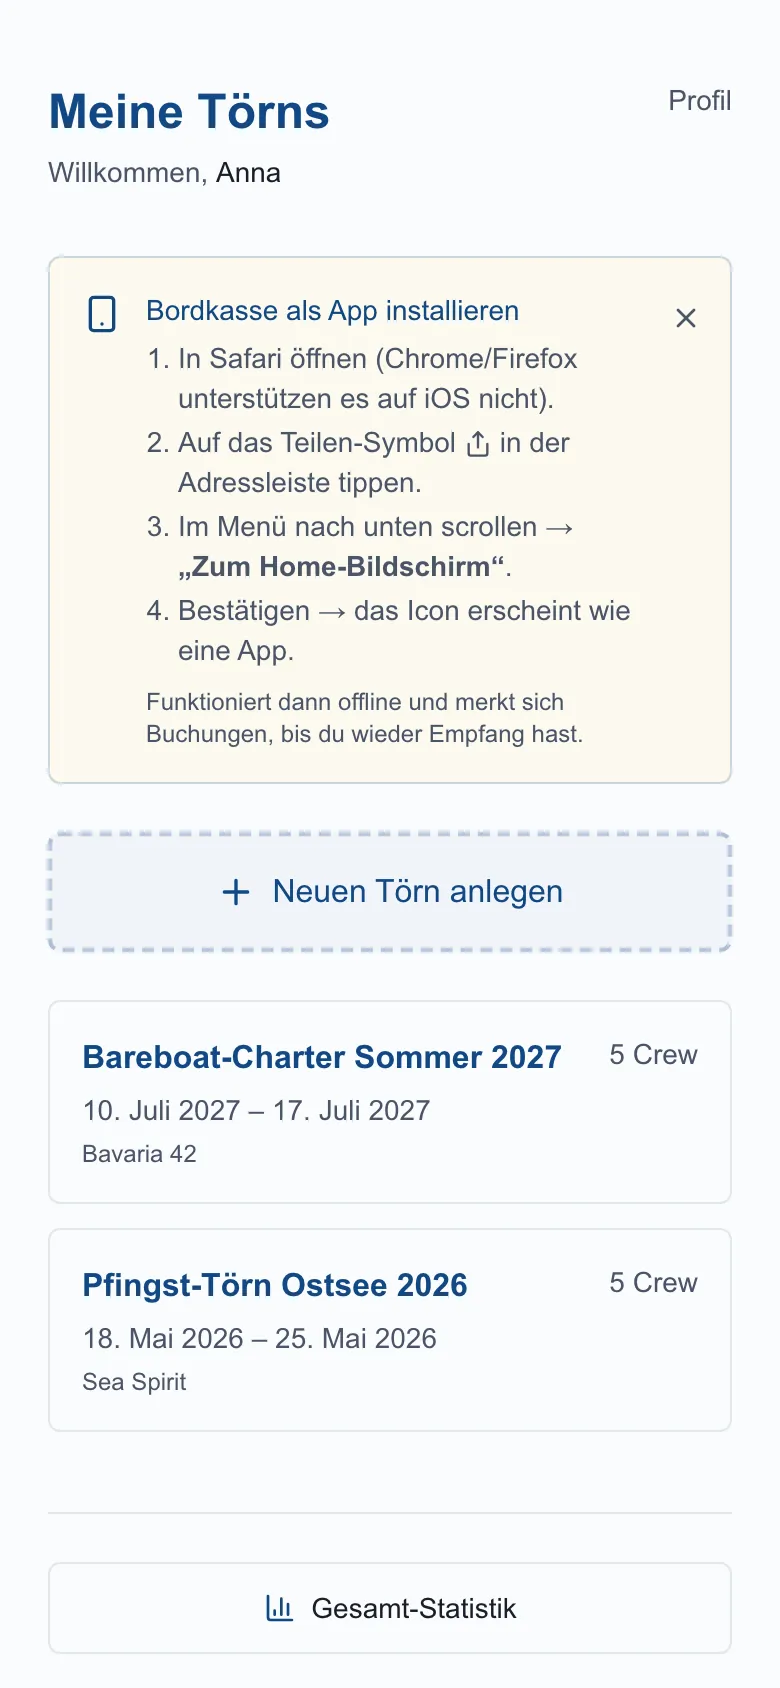
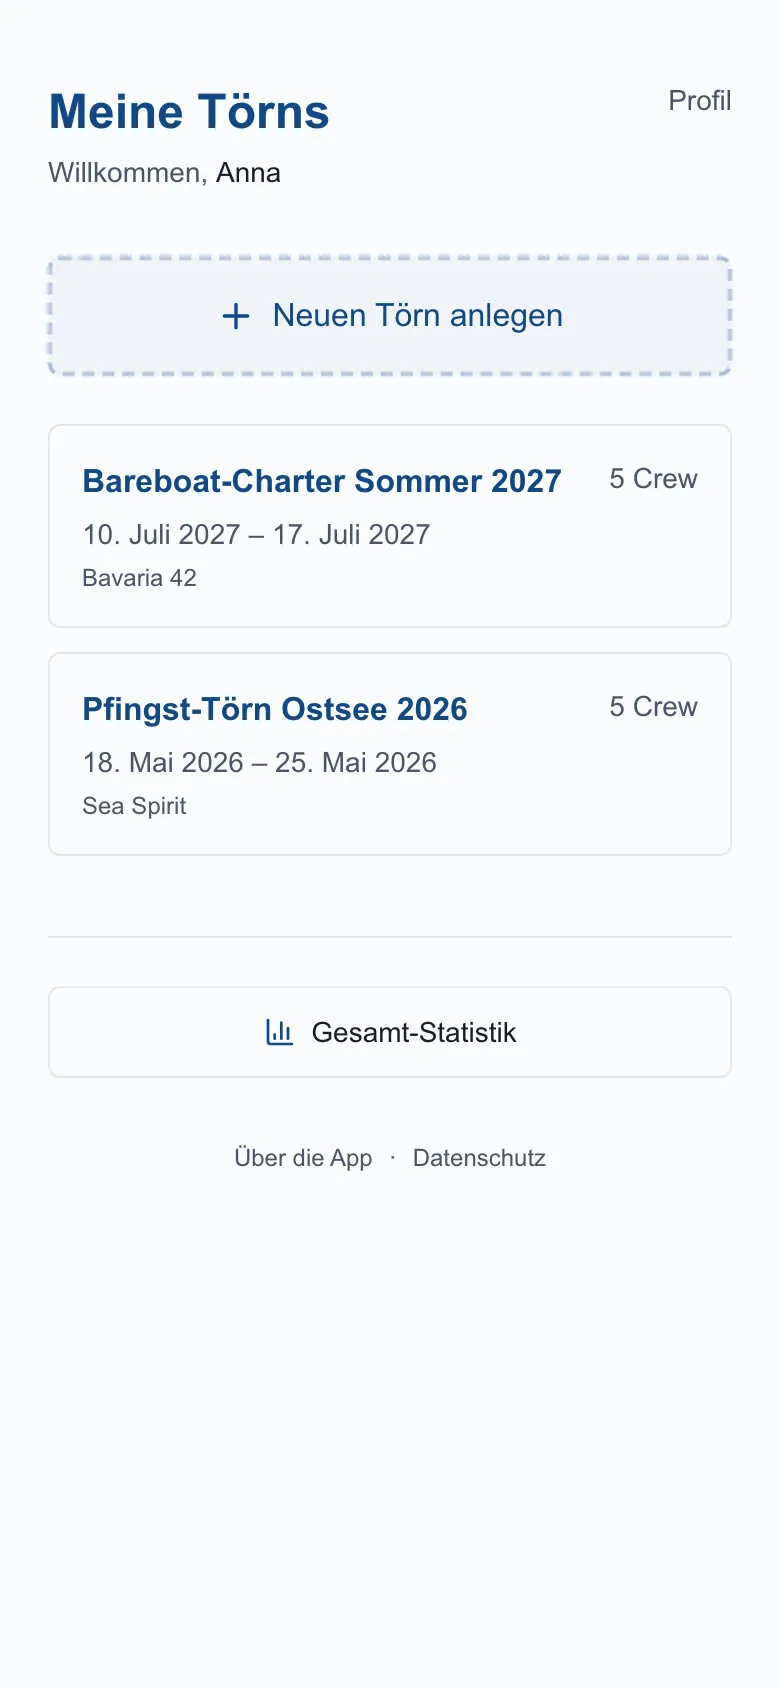
chore(about): Install-Hinweis aus Törn-Übersicht-Screenshot ausblenden
Der PWA-Installations-Hinweis (InstallHint) rendert auf der "/"-Route sowohl
im ausgeloggten Welcome-View als auch in der eingeloggten Törn-Übersicht. Auf
01-welcome ist er gewollt; im 03-trips-Shot dupliziert er nur und lenkt von
den eigentlichen Inhalten ab.

- take-screenshots.ts: blendet das aside[role=note] mit "installier…" gezielt
  vor dem 03-trips-Shot aus (nur dort — 01-welcome bleibt unberührt).
- public/about/03-trips.webp ohne Hinweis neu erzeugt.

diff --git a/webapp/scripts/take-screenshots.ts b/webapp/scripts/take-screenshots.ts
@@ -209,6 +209,17 @@ async function main() {
   await loginAs(page, SKIPPER_EMAIL);
 
   console.log("→ Trips-Übersicht (eingeloggt)");
+  // Den PWA-Installations-Hinweis hier ausblenden: er steht schon prominent
+  // auf dem Welcome-Screenshot (01) und würde in der Törn-Übersicht nur von
+  // den eigentlichen Inhalten ablenken.
+  await page.evaluate(() => {
+    document.querySelectorAll('aside[role="note"]').forEach((el) => {
+      if (/installier/i.test(el.textContent ?? "")) {
+        (el as HTMLElement).style.display = "none";
+      }
+    });
+  });
+  await page.waitForTimeout(150);
   await shot(page, "03-trips");
 
   // Aus der Trip-Liste die beiden Demo-Trips per Namen heraussuchen:
